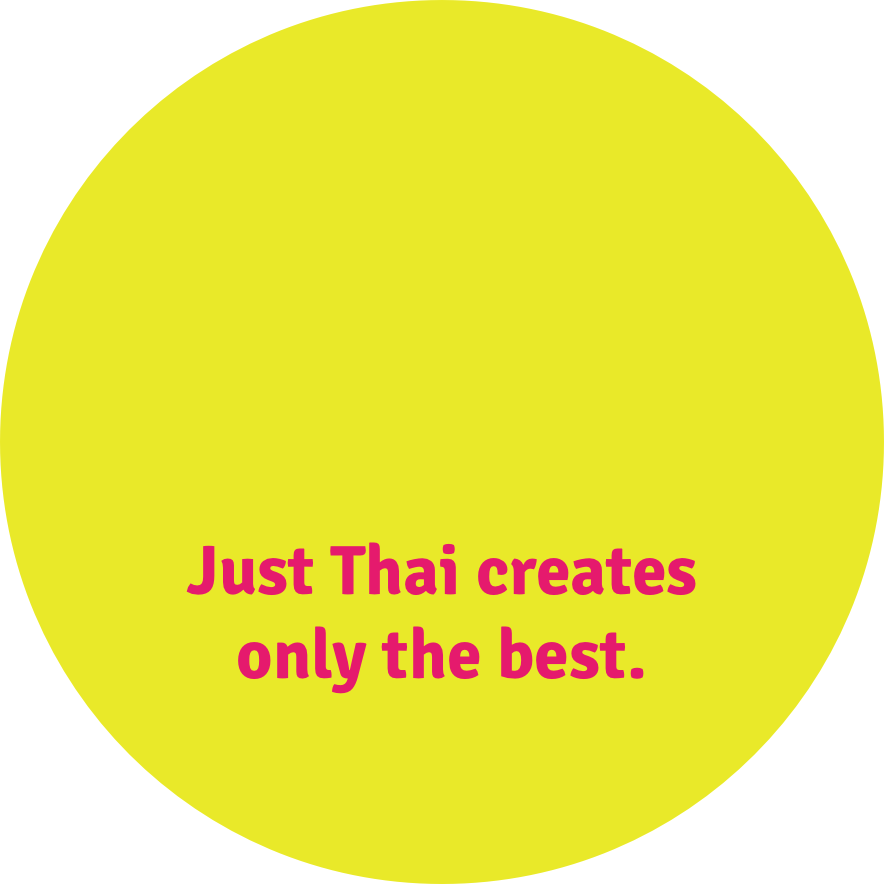
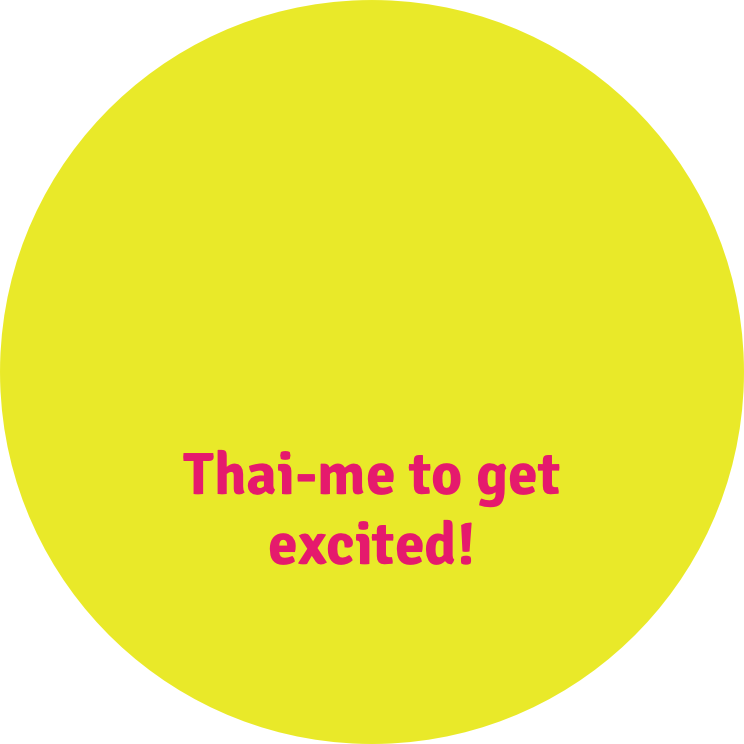
update oval Text

Changed region(s): [[0.2164, 0.5874, 0.8038, 0.8038]]

diff --git a/src/components/menu.js b/src/components/menu.js
@@ -94,7 +94,7 @@ const Menu = () => {
       <div className="topText">
         <h1>Check the favourites from our menu</h1>
         <p>
-          Thai-me to get excited! With Just Thai you can enjoy a variety of
+          With Just Thai you can enjoy a variety of
           all-time classics and modern Street Food specialties like soups, rise
           dishes and famous Thai noodles, including Pad Thai!
         </p>
@@ -120,7 +120,7 @@ const Menu = () => {
               </div>
             </h1>
             <p>
-              Everyone knows them, everyone loves them: Vegetarian spring rolls
+              Everyone knows them, everyone loves them: Vegetarian spring rolls are
               Thai cuisine crispy classics. We prepare them according to the
               recipe of our favorite cook Nang from the street food market in
               Bangkok and deliver them to you, with a fruity-sweet chili sauce.
